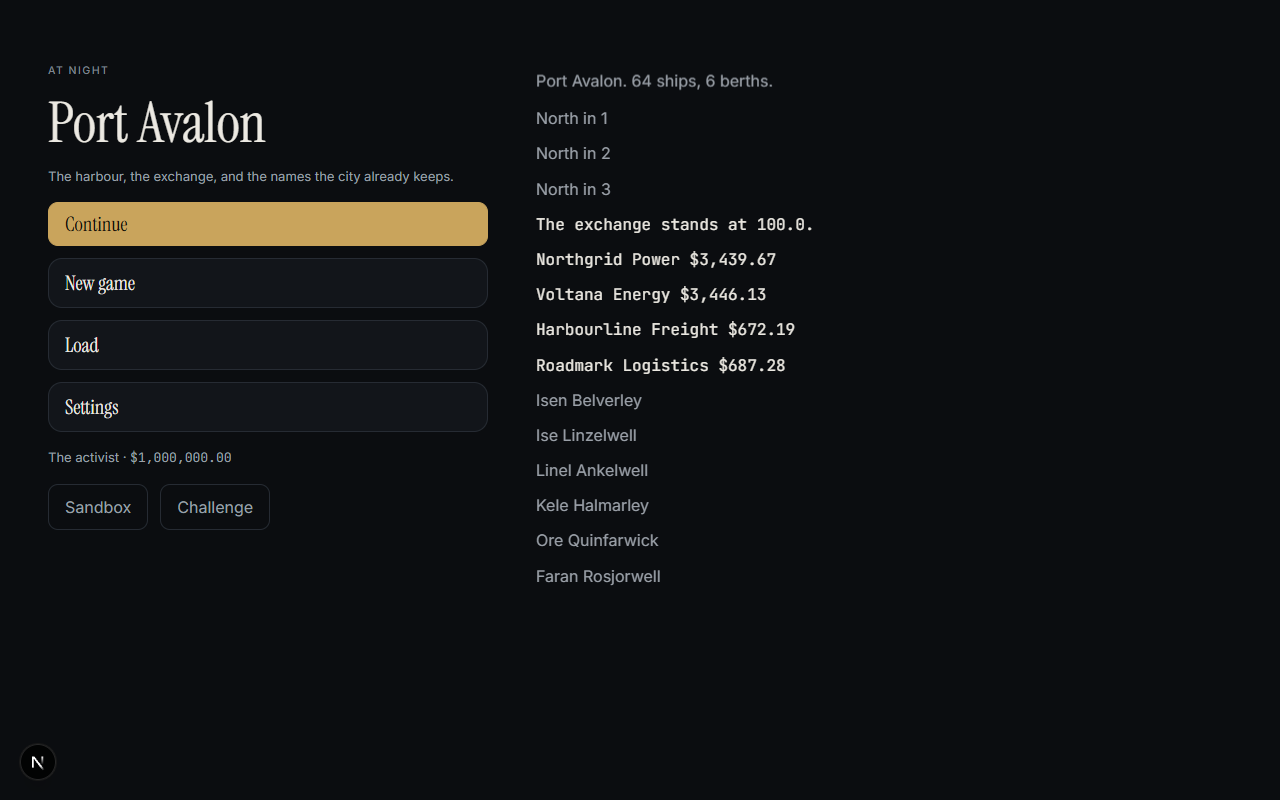
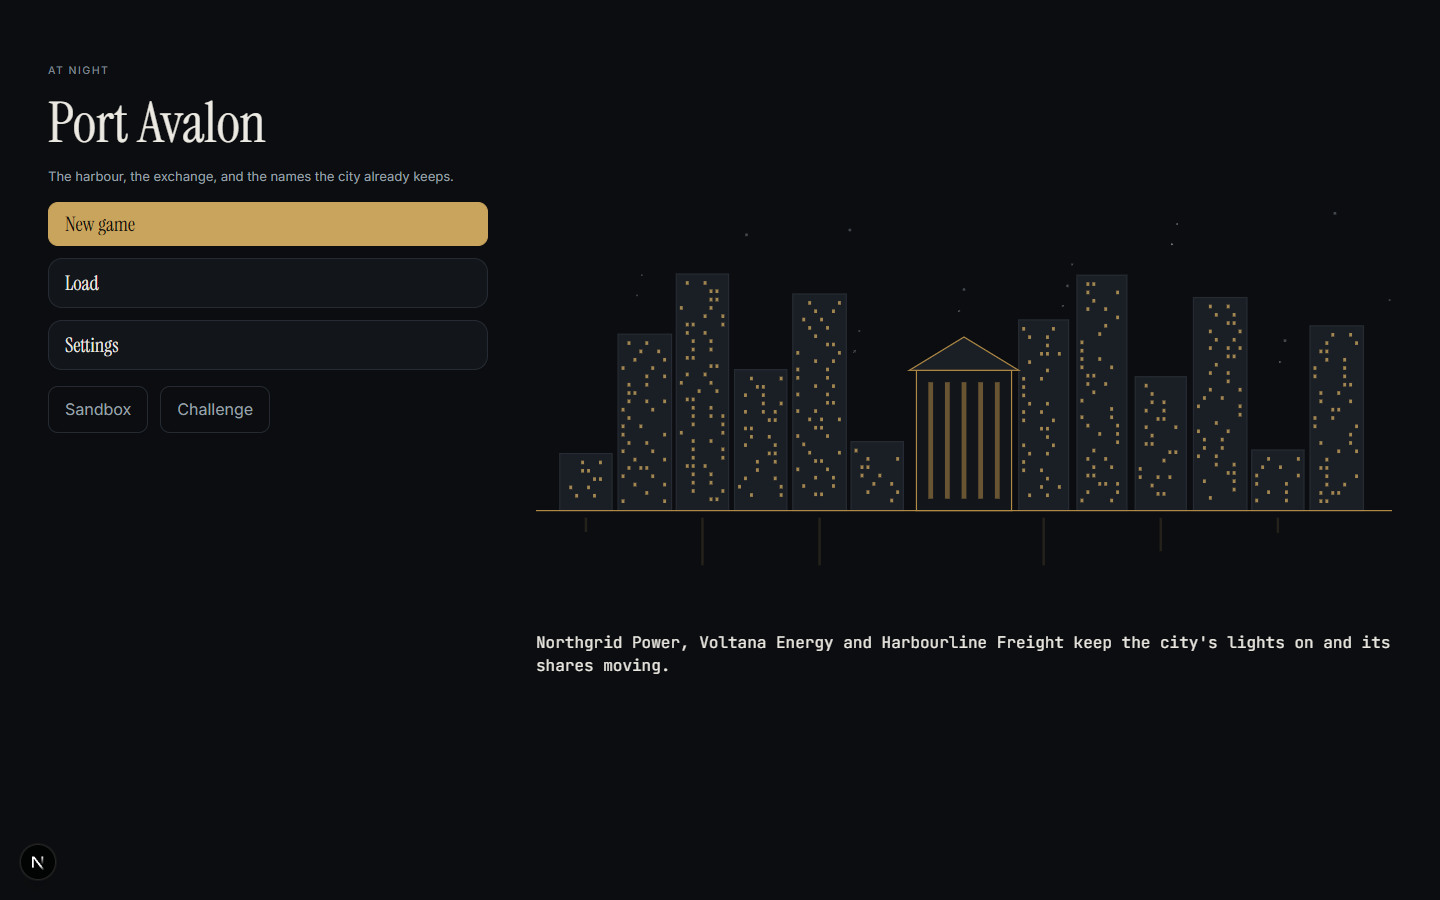
Title: Port Avalon at night, drawn from the live world
One building per listed firm along the harbour (height from market value, lit
windows from staff), the exchange with the index, ships by where they are, and
one readable line at a time: prices, the rich with their firms, the harbour,
the rates, the latest headline. Before any world exists the lines are sentences
about the city instead of bare names.

diff --git a/sim/server.ts b/sim/server.ts
@@ -3749,14 +3749,19 @@ function portraitLines(world: World | null): DriftLine[] {
   if (!world) {
     const saved = savedPortrait();
     if (saved?.length) return saved;
-    return [
-      { k: 'harbour', text: `${face.harbour}. The berths are dark.` },
-      ...face.routes.slice(0, 4).map((text) => ({ k: 'harbour', text })),
-      { k: 'exchange', text: 'The exchange has not marked a price yet.' },
-      ...face.firms.slice(0, 8).map((text) => ({ k: 'exchange', text })),
-      ...face.districts.map((text) => ({ k: 'city', text })),
-    ];
+    const f = face.firms;
+    const d = face.districts;
+    const r = face.routes;
+    const out: DriftLine[] = [{ k: 'harbour', text: `${face.harbour} sleeps. The exchange opens at first light.` }];
+    if (f.length >= 3) out.push({ k: 'exchange', text: `${f[0]}, ${f[1]} and ${f[2]} keep the city's lights on and its shares moving.` });
+    if (r.length >= 2) out.push({ k: 'harbour', text: `Ships come in on ${r[0]} and ${r[1]}, and every cargo moves a price.` });
+    if (d.length >= 3) out.push({ k: 'city', text: `Dock hands live in ${d[0]}; the money lives in ${d[d.length - 1]}. You start somewhere between.` });
+    if (f.length >= 6) out.push({ k: 'exchange', text: `${f[3]}, ${f[4]} and ${f[5]} hire, cut, borrow and fail like real firms.` });
+    out.push({ k: 'city', text: 'Thousands of people here keep a job, a family, a bank account and a memory of you.' });
+    return out;
   }
+  const told = sceneLines(world);
+  if (told.length >= 4) return told;
   const port = world.state.port as { name?: string; berths?: number; ships?: { name?: string }[]; closedUntil?: number } | undefined;
   const shut = (port?.closedUntil ?? 0) > world.day;
   const lines: DriftLine[] = [{
@@ -3791,6 +3796,90 @@ function portraitLines(world: World | null): DriftLine[] {
   return lines;
 }
 
+interface SceneData {
+  index: number | null;
+  firms: { name: string; cap: number; staff: number; sector: string }[];
+  berthed: number;
+  waiting: number;
+  sailing: number;
+}
+
+function ordinal(n: number): string {
+  const s = n % 100 >= 11 && n % 100 <= 13 ? 'th' : ['th', 'st', 'nd', 'rd'][n % 10] ?? 'th';
+  return `${n}${n % 10 > 3 ? 'th' : s}`;
+}
+
+/** The skyline and the harbour for the title: one building per listed firm, the ships by where they are. */
+function titleScene(world: World | null): SceneData {
+  if (!world) {
+    try {
+      const raw = JSON.parse(fs.readFileSync(path.join(SAVES, '.scene.json'), 'utf8')) as SceneData;
+      if (Array.isArray(raw?.firms) && raw.firms.length) return raw;
+    } catch { /* fall back to the catalogue */ }
+    const face = catalogFace();
+    return { index: null, firms: face.firms.map((name, i) => ({ name, cap: 1 + ((i * 7) % 5), staff: 0, sector: '' })), berthed: 0, waiting: 0, sailing: 0 };
+  }
+  const s = econ(world);
+  const firms: SceneData['firms'] = [];
+  for (const st of stocksOf(world)) {
+    const f = s.firms.find((x) => x.id === st.issuer);
+    if (!f || f.closed) continue;
+    const px = session(st).px;
+    const shares = world.ledger.issued.get(st.instr) ?? 0;
+    firms.push({ name: f.name, cap: Math.max(0, Math.round(px * shares)), staff: f.staff.length, sector: f.sector ?? '' });
+  }
+  const port = world.state.port as { ships?: { way?: string; eta?: number; sailDay?: number }[] } | undefined;
+  let berthed = 0, waiting = 0, sailing = 0;
+  for (const sh of port?.ships ?? []) {
+    if (sh.way === 'idle') berthed++;
+    else if (sh.way === 'in' && (sh.eta ?? 0) <= world.day + 2) waiting++;
+    else sailing++;
+  }
+  const idx = indexPair(world).index;
+  return { index: Number.isFinite(idx) ? Math.round(idx * 10) / 10 : null, firms, berthed, waiting, sailing };
+}
+
+/** Lines that explain themselves to someone who has never played. */
+function sceneLines(world: World): DriftLine[] {
+  const s = econ(world);
+  const P = s.P;
+  const out: DriftLine[] = [];
+  const stocks = stocksOf(world)
+    .map((st) => ({ st, px: session(st).px, prev: session(st).prev }))
+    .filter((x) => Number.isFinite(x.px) && x.px > 0);
+  stocks.sort((a, b) => Math.abs(b.px / (b.prev || b.px) - 1) - Math.abs(a.px / (a.prev || a.px) - 1));
+  for (const x of stocks.slice(0, 3)) {
+    const name = s.firms.find((f) => f.id === x.st.issuer)?.name ?? '';
+    if (!name) continue;
+    const ch = x.prev > 0 ? (x.px / x.prev - 1) * 100 : 0;
+    const move = Math.abs(ch) < 0.05 ? 'trades at' : ch > 0 ? `is up ${ch.toFixed(1)}% at` : `is down ${Math.abs(ch).toFixed(1)}% at`;
+    out.push({ k: 'exchange', text: `${name} ${move} ${moneyLabel(Math.round(x.px))} a share.` });
+  }
+  const soc = world.state.society as { rich?: { person: number; worth: number; why: string }[] } | undefined;
+  for (const [r, row] of (soc?.rich ?? []).slice(0, 3).entries()) {
+    if (row.person < 0 || row.person >= P.n || !P.alive(row.person)) continue;
+    const emp = P.employer[row.person];
+    const firm = emp >= 0 ? s.firms[emp] : undefined;
+    const role = firm && firm.ceo === row.person ? `, chief executive of ${firm.name},` : '';
+    const rank = r === 0 ? 'richest' : `${ordinal(r + 1)}-richest`;
+    const worth = row.worth >= 100_000_000 ? `$${(row.worth / 100 / 1e6).toFixed(1)} million` : moneyLabel(Math.round(row.worth));
+    out.push({ k: 'rich', text: `${P.name(row.person)}${role} is the city's ${rank}, worth ${worth}.` });
+  }
+  const sc = titleScene(world);
+  const ships = sc.berthed + sc.waiting + sc.sailing;
+  if (ships) out.push({ k: 'harbour', text: `${sc.berthed} ${sc.berthed === 1 ? 'ship is' : 'ships are'} at berth, ${sc.waiting} waiting at the mouth, ${sc.sailing} at sea.` });
+  out.push({ k: 'city', text: `Unemployment is ${(s.unemployment * 100).toFixed(1)}% and the policy rate is ${(s.policyRate * 100).toFixed(2)}%.` });
+  const facts = (world.state.social as { facts?: FactRow[] } | undefined)?.facts ?? [];
+  let n = 0;
+  for (let f = facts.length - 1; f >= 0 && n < 3; f--) {
+    const fact = facts[f];
+    if (!fact || fact.drop || !fact.pub || !fact.msg) continue;
+    out.push({ k: 'wire', text: fact.msg });
+    n++;
+  }
+  return out;
+}
+
 function savedPortrait(): DriftLine[] | null {
   try {
     const raw = JSON.parse(fs.readFileSync(path.join(SAVES, '.portrait.json'), 'utf8')) as DriftLine[];
@@ -3803,6 +3892,7 @@ function rememberPortrait(world: World): void {
   try {
     fs.mkdirSync(SAVES, { recursive: true });
     fs.writeFileSync(path.join(SAVES, '.portrait.json'), JSON.stringify(portraitLines(world)));
+    fs.writeFileSync(path.join(SAVES, '.scene.json'), JSON.stringify(titleScene(world)));
   } catch { /* the title still has the catalog */ }
 }
 
@@ -3966,6 +4056,7 @@ function titleBody(): Record<string, unknown> {
     saves,
     last: saves[0] ?? null,
     lines: portraitLines(worldReady ? w : null),
+    scene: titleScene(worldReady ? w : null),
     names: GIVEN_NAMES,
     ages: AGE_BANDS,
     districts: face.districts,

diff --git a/src/components/shell/NightScene.tsx b/src/components/shell/NightScene.tsx
@@ -1,0 +1,134 @@
+"use client";
+
+import { useEffect, useMemo, useState, type ReactElement } from "react";
+import type { DriftLine, SceneData } from "@/shell/simSession";
+
+// Port Avalon at night, drawn from the live world: one building per listed firm along the
+// harbour (height from its market value, lit windows from its staff), the exchange in the
+// middle with the index, the ships by where they are, and one real line at a time beneath.
+
+const W = 720;
+const H = 340;
+const WATER = 252;
+
+/** A small deterministic hash, so the same firm always gets the same windows. */
+function hash(s: string): number {
+  let h = 2166136261;
+  for (let i = 0; i < s.length; i++) h = Math.imul(h ^ s.charCodeAt(i), 16777619);
+  return h >>> 0;
+}
+
+interface Tower { x: number; w: number; h: number; name: string; lit: [number, number][] }
+
+function towers(scene: SceneData): Tower[] {
+  const firms = scene.firms.slice(0, 28);
+  if (!firms.length) return [];
+  const caps = firms.map((f) => Math.max(1, f.cap));
+  const lo = Math.log(Math.min(...caps));
+  const hi = Math.log(Math.max(...caps));
+  const span = Math.max(0.0001, hi - lo);
+  const maxStaff = Math.max(1, ...firms.map((f) => f.staff));
+  // Leave the middle for the exchange.
+  const gapL = W / 2 - 46;
+  const gapR = W / 2 + 46;
+  const slots = firms.length;
+  const usable = W - 40 - (gapR - gapL);
+  const step = usable / slots;
+  const out: Tower[] = [];
+  firms.forEach((f, i) => {
+    let x = 20 + i * step;
+    if (x + step > gapL) x += gapR - gapL;
+    const h0 = hash(f.name);
+    const w = Math.max(10, step - 4 - (h0 % 4));
+    const t = (Math.log(Math.max(1, f.cap)) - lo) / span;
+    const h = 46 + t * 150 + (h0 % 13);
+    const lit: [number, number][] = [];
+    const cols = Math.max(1, Math.floor((w - 4) / 5));
+    const rows = Math.max(1, Math.floor((h - 8) / 7));
+    const share = f.staff > 0 ? 0.12 + 0.6 * (f.staff / maxStaff) : 0.25;
+    for (let r = 0; r < rows; r++) {
+      for (let c = 0; c < cols; c++) {
+        const v = hash(`${f.name}:${r}:${c}`) % 1000;
+        if (v < share * 1000) lit.push([x + 3 + c * 5, WATER - h + 6 + r * 7]);
+      }
+    }
+    out.push({ x, w, h, name: f.name, lit });
+  });
+  return out;
+}
+
+function Ships({ scene }: { scene: SceneData }) {
+  const docked = Math.min(scene.berthed, 8);
+  const waiting = Math.min(scene.waiting, 5);
+  const out: ReactElement[] = [];
+  for (let i = 0; i < docked; i++) {
+    const x = 60 + i * 34;
+    out.push(<path key={`b${i}`} className="ns-ship" d={`M${x} ${WATER + 14} h22 l-4 6 h-14 z M${x + 6} ${WATER + 14} v-7 h8 v7`} />);
+  }
+  for (let i = 0; i < waiting; i++) {
+    const x = W - 70 - i * 40;
+    const y = WATER + 52 + (i % 2) * 12;
+    out.push(
+      <g key={`w${i}`} className="ns-drift" style={{ animationDelay: `${i * 1.7}s` }}>
+        <path className="ns-ship ns-far" d={`M${x} ${y} h18 l-3 5 h-12 z M${x + 5} ${y} v-6 h7 v6`} />
+        <circle className="ns-light" cx={x + 9} cy={y - 8} r={1.4} />
+      </g>,
+    );
+  }
+  return <g>{out}</g>;
+}
+
+export default function NightScene({ scene, lines }: { scene?: SceneData; lines: DriftLine[] }) {
+  const built = useMemo(() => (scene ? towers(scene) : []), [scene]);
+  const said = useMemo(() => lines.filter((l) => l.text && l.text.length > 12).slice(0, 12), [lines]);
+  const [at, setAt] = useState(0);
+  useEffect(() => {
+    if (said.length < 2) return;
+    const id = window.setInterval(() => setAt((n) => (n + 1) % said.length), 4200);
+    return () => window.clearInterval(id);
+  }, [said.length]);
+  const line = said.length ? said[at % said.length] : null;
+  const ex = W / 2;
+  return (
+    <figure className="ns" data-testid="title-scene">
+      <svg viewBox={`0 0 ${W} ${H}`} role="img" aria-label="Port Avalon at night: the exchange, the firms along the harbour and the ships">
+        <g className="ns-stars">
+          {Array.from({ length: 26 }, (_, i) => {
+            const h = hash(`star${i}`);
+            return <circle key={i} cx={(h % W)} cy={10 + ((h >> 10) % 120)} r={(h % 3) === 0 ? 1.1 : 0.7} />;
+          })}
+        </g>
+        {built.map((t) => (
+          <g key={t.name}>
+            <title>{t.name}</title>
+            <rect className="ns-tower" x={t.x} y={WATER - t.h} width={t.w} height={t.h} />
+            {t.lit.map(([x, y], i) => <rect key={i} className="ns-win" x={x} y={y} width={2.4} height={3} />)}
+          </g>
+        ))}
+        <g className="ns-exchange">
+          <path d={`M${ex - 40} ${WATER} v-118 h80 v118 z`} />
+          <path className="ns-pediment" d={`M${ex - 46} ${WATER - 118} L${ex} ${WATER - 146} L${ex + 46} ${WATER - 118} z`} />
+          {[-28, -14, 0, 14, 28].map((dx) => <rect key={dx} className="ns-column" x={ex + dx - 2} y={WATER - 108} width={4} height={98} />)}
+          {scene?.index != null ? (
+            <text className="ns-index" x={ex} y={WATER - 124} textAnchor="middle">{scene.index.toFixed(1)}</text>
+          ) : null}
+        </g>
+        <line className="ns-quay" x1={0} y1={WATER} x2={W} y2={WATER} />
+        <g className="ns-reflect">
+          {built.filter((_, i) => i % 2 === 0).map((t) => (
+            <line key={t.name} x1={t.x + t.w / 2} y1={WATER + 6} x2={t.x + t.w / 2} y2={WATER + 6 + Math.min(40, t.h / 4)} />
+          ))}
+        </g>
+        {scene ? <Ships scene={scene} /> : null}
+      </svg>
+      <figcaption>
+        {line ? <p key={at} className="ns-line" data-testid="title-line">{line.text}</p> : null}
+        {scene && scene.index != null ? (
+          <p className="ns-legend muted">
+            {scene.firms.length} firms on the exchange · {scene.berthed} ships at berth · {scene.waiting} waiting · {scene.sailing} at sea
+          </p>
+        ) : null}
+      </figcaption>
+    </figure>
+  );
+}

diff --git a/src/components/shell/title.css b/src/components/shell/title.css
@@ -128,3 +128,32 @@ html[data-motion="reduce"] .qy-drift li { animation: none; }
   .qy-arrive { padding: var(--sp-24); }
   .qy-first { bottom: calc(var(--edge-bar-h) + 72px); }
 }
+
+/* Port Avalon at night: the drawn scene beside the title menu. */
+.ns { margin: 0; display: flex; flex-direction: column; gap: var(--sp-16); align-self: center; width: 100%; }
+.ns svg { width: 100%; height: auto; display: block; }
+.ns-stars circle { fill: var(--fg-faint); opacity: .5; }
+.ns-tower { fill: var(--win2); stroke: var(--line); stroke-width: 1; }
+.ns-win { fill: var(--acc); opacity: .78; }
+.ns-exchange path { fill: var(--win); stroke: var(--acc-lo); stroke-width: 1; }
+.ns-exchange .ns-pediment { fill: var(--win2); }
+.ns-column { fill: var(--acc-lo); opacity: .55; }
+.ns-index { font: 500 13px var(--font-num); fill: var(--acc-hi); }
+.ns-quay { stroke: var(--acc-lo); stroke-width: 1; }
+.ns-reflect line { stroke: var(--acc); stroke-width: 2; opacity: .14; }
+.ns-ship { fill: var(--steel); }
+.ns-far { opacity: .6; }
+.ns-light { fill: var(--acc-hi); }
+.ns-drift { animation: ns-drift 14s ease-in-out infinite alternate; }
+@keyframes ns-drift { from { transform: translateX(0); } to { transform: translateX(-22px); } }
+.ns figcaption { display: flex; flex-direction: column; gap: var(--sp-8); min-height: 4.5em; }
+.ns-line { margin: 0; font: 400 var(--fs-16) / 1.45 var(--font-ui); color: var(--fg); animation: ns-in var(--dur-slow) var(--ease-out) both; }
+.ns-line.num { font-family: var(--font-num); }
+.ns-legend { margin: 0; font: 400 var(--fs-12, 12px) / 1.4 var(--font-ui); }
+@keyframes ns-in { from { opacity: 0; } to { opacity: 1; } }
+html[data-motion="reduce"] .ns-drift, html[data-motion="reduce"] .ns-line { animation: none; }
+@media (prefers-reduced-motion: reduce) { .ns-drift, .ns-line { animation: none; } }
+@media (max-width: 720px) {
+  .ns { order: -1; }
+  .ns svg { max-height: 180px; }
+}

diff --git a/src/components/shell/TitleScreen.tsx b/src/components/shell/TitleScreen.tsx
@@ -3,6 +3,7 @@
 import { useEffect, useMemo, useRef, useState, useSyncExternalStore, type FormEvent } from "react";
 import { Button } from "@/components/ui/Button";
 import { useShell, useShellStore } from "./ShellContext";
+import NightScene from "./NightScene";
 import { actLine, continueGame, loadGame, openGate, refreshTitle, startChallenge, startScenario, setSpeed, useSimSnap, type AgeBand, type DriftLine, type GenState, type SaveMeta, type ScenarioCard, type TitleData } from "@/shell/simSession";
 import { lessonDo } from "@/shell/lessonDo";
 import { PALETTE_IDS, type PaletteId } from "@/styles/tokens";
@@ -152,7 +153,7 @@ function Night({ title, onPage }: { title: TitleData | null; onPage: (p: Page) =
           <button type="button" data-testid="sim-challenge" onClick={() => onPage("code")}>Challenge</button>
         </p>
       </div>
-      <Lines lines={title?.lines ?? []} />
+      {title?.scene ? <NightScene scene={title.scene} lines={title.lines ?? []} /> : <Lines lines={title?.lines ?? []} />}
     </div>
   );
 }

diff --git a/src/shell/simSession.ts b/src/shell/simSession.ts
@@ -137,7 +137,15 @@ export interface SaveMeta {
 }
 export interface AgeBand { years: number; label: string }
 export interface DriftLine { k: string; text: string }
+export interface SceneData {
+  index: number | null;
+  firms: { name: string; cap: number; staff: number; sector: string }[];
+  berthed: number;
+  waiting: number;
+  sailing: number;
+}
 export interface TitleData {
+  scene?: SceneData;
   scenarios: ScenarioCard[];
   saves: SaveMeta[];
   last: SaveMeta | null;
